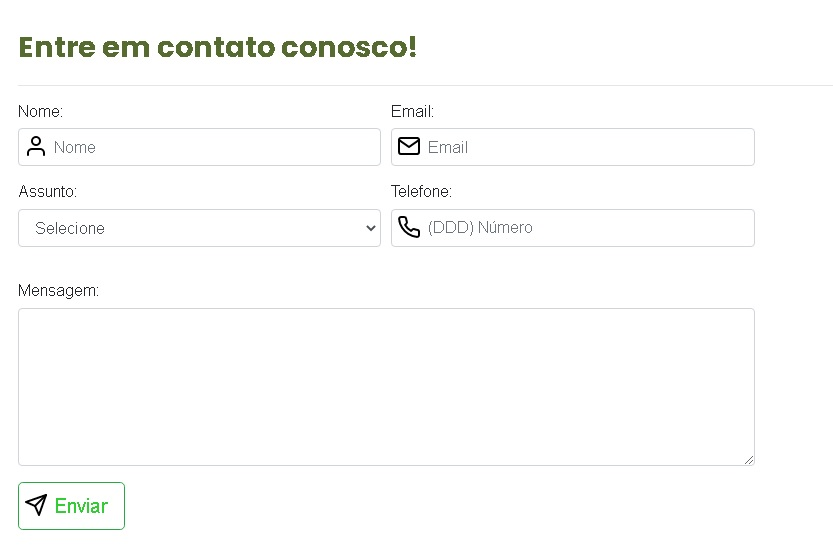
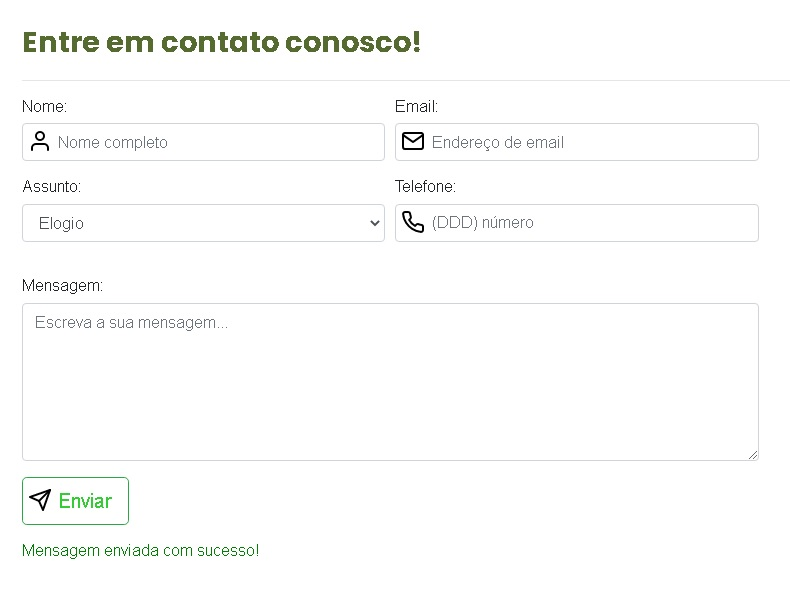
Update form and Readme

diff --git a/style.css b/style.css
@@ -54,3 +54,7 @@ body {
     background: url(images/send.svg) no-repeat scroll 5px 10px;
     padding-left: 2.2rem;
 }
+
+.msg {
+    margin: 1rem 0;
+}

diff --git a/index.php b/index.php
@@ -34,7 +34,7 @@ session_start();
                             <input
                                 type="text"
                                 class="form-control name"
-                                placeholder="Nome"
+                                placeholder="Nome completo"
                                 name="nome"
                             />
                         </div>
@@ -44,7 +44,7 @@ session_start();
                                 type="email"
                                 class="form-control email"
                                 id="inputEmail4"
-                                placeholder="Email"
+                                placeholder="Endereço de email"
                                 name="email"
                             />
                         </div>
@@ -71,7 +71,7 @@ session_start();
                             <input
                                 type="text"
                                 class="form-control phone"
-                                placeholder="(DDD) Número"
+                                placeholder="(DDD) número"
                                 id="telefone"
                                 name="telefone"
                             /><br />
@@ -87,6 +87,7 @@ session_start();
                                 id="exampleFormControlTextarea1"
                                 rows="6"
                                 name="mensagem"
+                                placeholder="Escreva a sua mensagem..."
                             ></textarea>
                         </div>
                     </div>
@@ -105,34 +106,35 @@ session_start();
                 </div>
             </section>
         </div>
+        <script
+            src="https://code.jquery.com/jquery-3.3.1.slim.min.js"
+            integrity="sha384-q8i/X+965DzO0rT7abK41JStQIAqVgRVzpbzo5smXKp4YfRvH+8abtTE1Pi6jizo"
+            crossorigin="anonymous"
+        ></script>
+        <script
+            src="https://cdnjs.cloudflare.com/ajax/libs/popper.js/1.14.3/umd/popper.min.js"
+            integrity="sha384-ZMP7rVo3mIykV+2+9J3UJ46jBk0WLaUAdn689aCwoqbBJiSnjAK/l8WvCWPIPm49"
+            crossorigin="anonymous"
+        ></script>
+        <script
+            src="https://stackpath.bootstrapcdn.com/bootstrap/4.1.3/js/bootstrap.min.js"
+            integrity="sha384-ChfqqxuZUCnJSK3+MXmPNIyE6ZbWh2IMqE241rYiqJxyMiZ6OW/JmZQ5stwEULTy"
+            crossorigin="anonymous"
+        ></script>
+        <script src="https://ajax.googleapis.com/ajax/libs/jquery/2.1.1/jquery.min.js"></script>
+        <script src="https://cdnjs.cloudflare.com/ajax/libs/jquery.mask/1.14.11/jquery.mask.min.js"></script>
+        <script src="https://unpkg.com/feather-icons"></script>
+        
+        <script>
+            feather.replace();
+        </script>
+
+        <!-- Máscara para telefone/celular -->
+        <script type="text/javascript">
+            $("#telefone, #celular").mask("(00) 00000-0000");
+        </script>
+        
     </body>
-    <script
-        src="https://code.jquery.com/jquery-3.3.1.slim.min.js"
-        integrity="sha384-q8i/X+965DzO0rT7abK41JStQIAqVgRVzpbzo5smXKp4YfRvH+8abtTE1Pi6jizo"
-        crossorigin="anonymous"
-    ></script>
-    <script
-        src="https://cdnjs.cloudflare.com/ajax/libs/popper.js/1.14.3/umd/popper.min.js"
-        integrity="sha384-ZMP7rVo3mIykV+2+9J3UJ46jBk0WLaUAdn689aCwoqbBJiSnjAK/l8WvCWPIPm49"
-        crossorigin="anonymous"
-    ></script>
-    <script
-        src="https://stackpath.bootstrapcdn.com/bootstrap/4.1.3/js/bootstrap.min.js"
-        integrity="sha384-ChfqqxuZUCnJSK3+MXmPNIyE6ZbWh2IMqE241rYiqJxyMiZ6OW/JmZQ5stwEULTy"
-        crossorigin="anonymous"
-    ></script>
-    <script src="https://ajax.googleapis.com/ajax/libs/jquery/2.1.1/jquery.min.js"></script>
-    <script src="https://cdnjs.cloudflare.com/ajax/libs/jquery.mask/1.14.11/jquery.mask.min.js"></script>
-
-    <script src="https://unpkg.com/feather-icons"></script>
-    <script>
-        feather.replace();
-    </script>
-
 </html>    
 
 
-<!-- Máscara para telefone/celular -->
-<script type="text/javascript">
-    $("#telefone, #celular").mask("(00) 00000-0000");
-</script>

diff --git a/proc_contato_msg.php b/proc_contato_msg.php
@@ -14,7 +14,7 @@ if($enviarContato){
     $mensagem = filter_input(INPUT_POST, 'mensagem', FILTER_SANITIZE_STRING);
 
     //Inserir no DB
-   $result_msg_cont = "INSERT INTO mensagens_clientes (nome, email, assunto, telefone, mensagem) VALUES (:nome, :email, :assunto, :telefone, :mensagem)";
+    $result_msg_cont = "INSERT INTO mensagens_clientes (nome, email, assunto, telefone, mensagem) VALUES (:nome, :email, :assunto, :telefone, :mensagem)";
 
     $insert_msg_cont =  $conn->prepare($result_msg_cont);
     $insert_msg_cont->bindParam(':nome', $nome);
@@ -23,17 +23,17 @@ if($enviarContato){
     $insert_msg_cont->bindParam(':telefone', $telefone);
     $insert_msg_cont->bindParam(':mensagem', $mensagem);
 
-   if($insert_msg_cont->execute()){
+    if($insert_msg_cont->execute()){
 
-    $_SESSION['msg'] = "<p style='color:green;'>Mensagem enviada com sucesso</p>";
+    $_SESSION['msg'] = "<p style='color:green;'>Mensagem enviada com sucesso!</p>";
         header("Location: index.php");
 
-   } else{
+    } else{
 
     $_SESSION['msg'] = "<p style='color:red;'>Mensagem não foi enviada com sucesso!</p>";
     header("Location: index.php");
 
-   }
+    }
 } else {
     $_SESSION['msg'] = "<p style='color:red;'>Mensagem não foi enviada com sucesso!</p>";
         header("Location: index.php");

diff --git a/README.md b/README.md
@@ -10,7 +10,7 @@
 
 <br>
 <p align="center">
-  <img alt="formulario" src="images/form.jpg" width="70%">
+  <img alt="formulario" src="images/form.jpg" width="80%">
 </p>
 
 ## 🚀 Tecnologias
